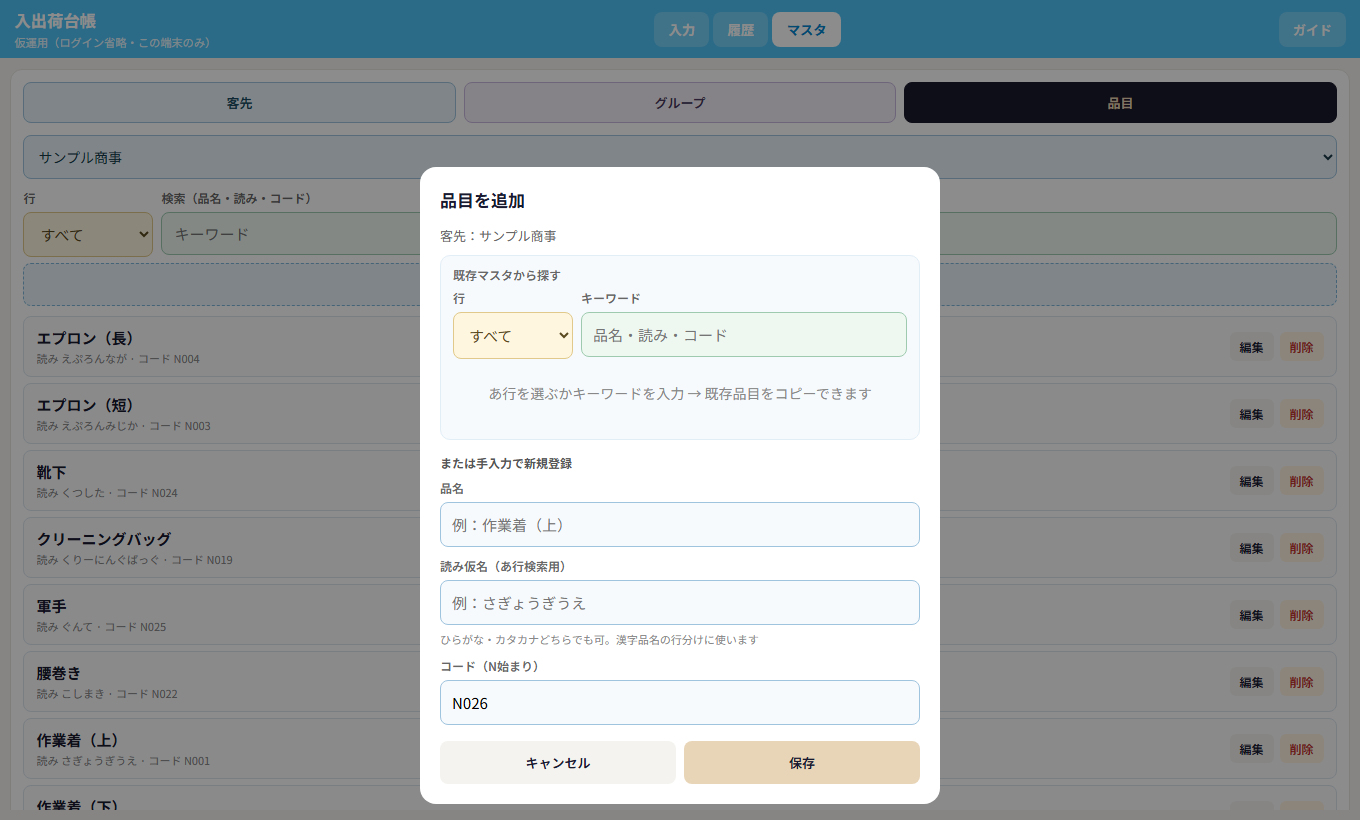
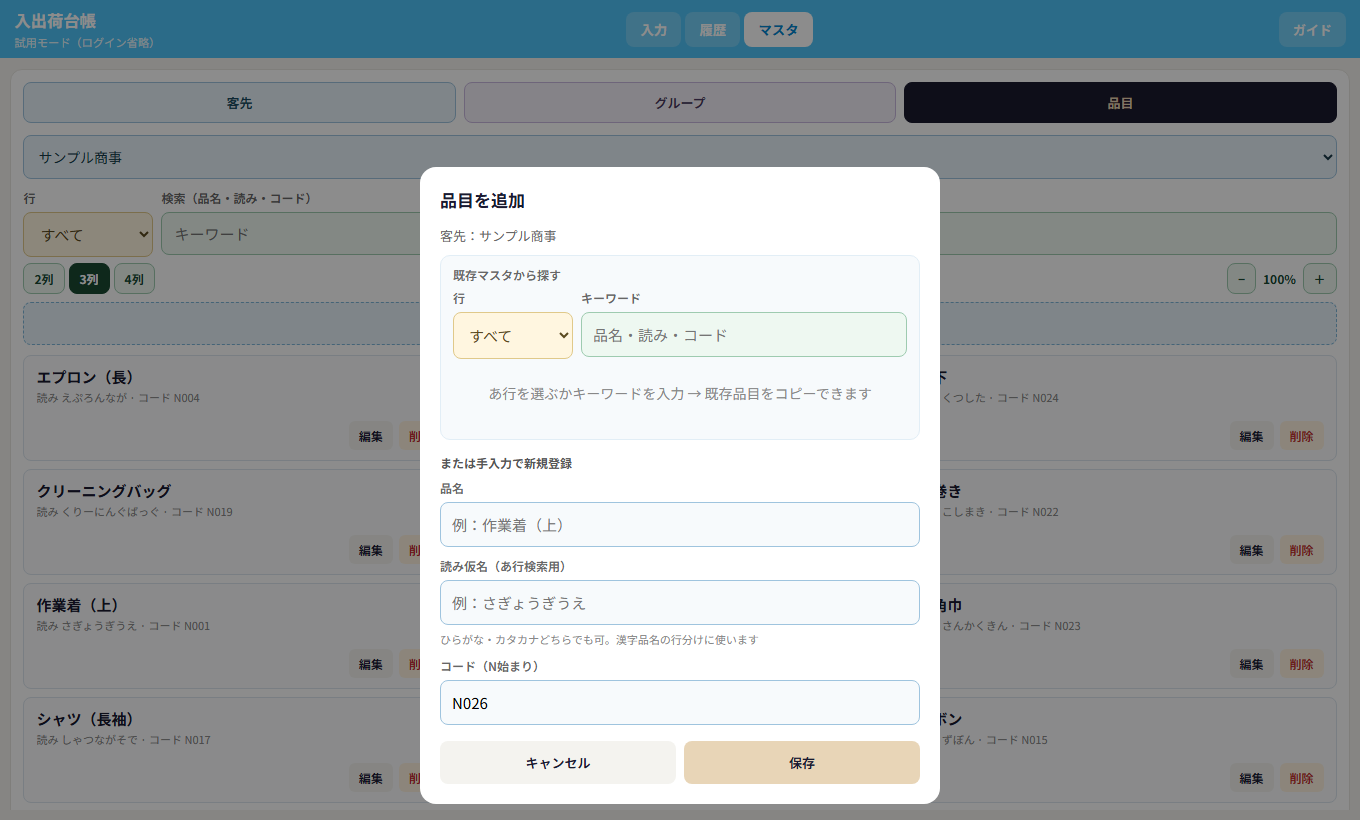
入力に伝票発行（準備中）ボタンを置き、ガイド文面とスクショを更新。

diff --git a/guide.html b/guide.html
@@ -135,8 +135,12 @@
       </ul>
       <h3>品目をその場で足す</h3>
       <p>「＋ 品目を追加」から、自由入力またはマスタ検索ができます。すでにマスタにある名前は「登録済み」としてマスタ側が追加されます。</p>
-      <h3>伝票入力メモ</h3>
-      <p>「出」の数量を確認する画面です。伝票アプリへ転記するときに使います。</p>
+      <h3>右側のボタン</h3>
+      <ul>
+        <li><strong>完了して保存</strong> … 台帳を保存します。</li>
+        <li><strong>伝票を発行</strong> … 将来、ここから伝票アプリへつなぐ予定です（いまは「準備中」表示）。</li>
+        <li><strong>伝票入力メモ</strong> … 「出」の数量を確認する画面。当面はここを見ながら伝票アプリへ転記します。</li>
+      </ul>
     </section>
 
     <section id="history">
@@ -162,8 +166,14 @@
       </ul>
       <figure class="shot">
         <img src="./guide-shots/shot-master-list.png" alt="マスタ品目一覧のスクリーンショット" width="1360" height="820">
-        <figcaption>図3. マスタ｜品目一覧（あ行・キーワードで絞り込み）</figcaption>
+        <figcaption>図3. マスタ｜品目一覧（複数列・あ行・キーワードで絞り込み）</figcaption>
       </figure>
+      <h3>品目一覧の表示</h3>
+      <ul>
+        <li>品目は<strong>複数列</strong>で並びます（初期は3列）。</li>
+        <li><strong>2列 / 3列 / 4列</strong> … 一覧の列数を切り替えます。</li>
+        <li><strong>− / ％ / ＋</strong> … カードの拡大縮小（入力画面の倍率とは別です）。</li>
+      </ul>
       <h3>品目の登録</h3>
       <ol>
         <li>品目タブで客先を選ぶ</li>
@@ -206,7 +216,7 @@
         <li>タブレットでアプリを開く</li>
         <li>客先を選んで入・出を入力</li>
         <li>完了して保存</li>
-        <li>必要なら伝票入力メモを見ながら、伝票アプリで納品書を発行</li>
+        <li>必要なら伝票入力メモを見ながら、伝票アプリで納品書を発行（「伝票を発行」は準備中）</li>
         <li>客先や品目のメンテはPCまたはタブレットのマスタから</li>
       </ol>
     </section>

diff --git a/index.html b/index.html
@@ -96,6 +96,9 @@ select,input[type=date],input[type=text]{width:100%;padding:10px 12px;border:1px
 .sidebar-actions{display:flex;flex-direction:column;gap:8px;flex-shrink:0}
 .sidebar-actions .btn{width:100%;padding:calc(11px * var(--ui-scale, 1));font-size:calc(13px * var(--ui-scale, 1))}
 .btn-memo{background:#f0ebff;color:#5b4b8a;border:none}
+.btn-issue{background:#1a4a62;color:#fff;border:none;position:relative}
+.btn-issue .soon{display:block;font-size:calc(10px * var(--ui-scale, 1));font-weight:600;opacity:.85;margin-top:2px;letter-spacing:.02em}
+.btn-issue:disabled{opacity:.72;cursor:not-allowed}
 .numpad-target{font-size:calc(12px * var(--ui-scale, 1));color:#666;text-align:center;line-height:1.5;min-height:calc(32px * var(--ui-scale, 1));display:flex;align-items:center;justify-content:center;flex-shrink:0}
 .numpad-target strong{color:#1a1a2e}
 .numpad{display:grid;grid-template-columns:repeat(3,1fr);gap:calc(7px * var(--ui-scale, 1))}
@@ -2216,6 +2219,9 @@ function render() {
         <aside class="numpad-wrap${showNumpad ? "" : " hidden"}${state.focus ? "" : " disabled"}" aria-label="テンキー">
           <div class="sidebar-actions">
             <button class="btn btn-primary" id="btn-save">完了して保存</button>
+            <button type="button" class="btn btn-issue" id="btn-issue" title="伝票アプリとの連動は準備中です">
+              伝票を発行<span class="soon">準備中</span>
+            </button>
             <button class="btn btn-memo" id="btn-memo">伝票入力メモ</button>
           </div>
           <div class="numpad-target">${numpadHint}</div>
@@ -2370,8 +2376,14 @@ function render() {
   }
 
   const saveBtn = document.getElementById("btn-save");
+  const issueBtn = document.getElementById("btn-issue");
   const memoBtn = document.getElementById("btn-memo");
   if (saveBtn) saveBtn.onclick = saveLedger;
+  if (issueBtn) {
+    issueBtn.onclick = () => {
+      toast("伝票発行は準備中です。当面は「伝票入力メモ」から転記してください");
+    };
+  }
   if (memoBtn) memoBtn.onclick = showMemoFromForm;
 
   if (state.tab === 1) {

diff --git a/sw.js b/sw.js
@@ -1,4 +1,4 @@
-const CACHE_NAME = "pourvous-ledger-v22";
+const CACHE_NAME = "pourvous-ledger-v23";
 const SHELL = [
   "./index.html",
   "./guide.html",
